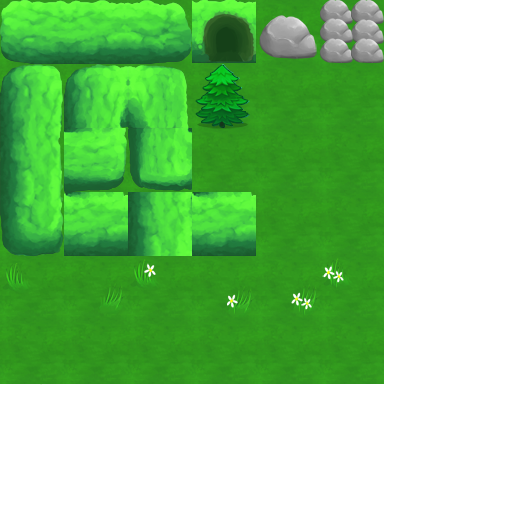
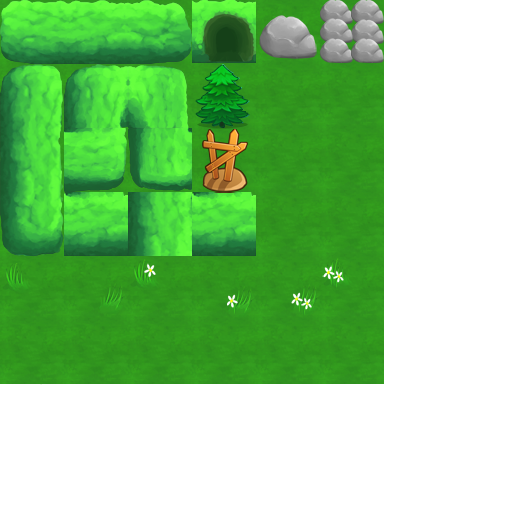
Barricade added

Changed region(s): [[0.375, 0.25, 0.5, 0.375]]

diff --git a/megafoxhunt-server/src/net/megafox/game/GameSimulation.java b/megafoxhunt-server/src/net/megafox/game/GameSimulation.java
@@ -10,15 +10,19 @@ import java.util.TimerTask;
 import net.megafox.entities.Berry;
 import net.megafox.entities.Chased;
 import net.megafox.entities.Chaser;
+import net.megafox.entities.Empty;
 import net.megafox.entities.Entity;
 import net.megafox.entities.Hole;
 import net.megafox.entities.Powerup;
 import net.megafox.entities.Entity.Visibility;
 import net.megafox.gameroom.PlayerContainer;
+import net.megafox.items.Barricade;
 import net.megafox.items.Bomb;
 import net.megafox.items.Item;
+import net.megafoxhunt.server.IDHandler;
 import net.megafoxhunt.server.PlayerConnection;
 import net.megafoxhunt.shared.KryoNetwork.ActivatePowerup;
+import net.megafoxhunt.shared.KryoNetwork.AddBarricade;
 import net.megafoxhunt.shared.KryoNetwork.AddChaser;
 import net.megafoxhunt.shared.KryoNetwork.AddChased;
 import net.megafoxhunt.shared.KryoNetwork.AddPowerup;
@@ -54,9 +58,12 @@ public class GameSimulation {
 	
 	private boolean powerupActive = false;
 	
-	public GameSimulation(PlayerContainer playerContainer, GameMapServerSide gameMap){
+	private IDHandler idHandler;
+	
+	public GameSimulation(PlayerContainer playerContainer, GameMapServerSide gameMap, IDHandler idHandler){
 		this.gameMap = gameMap;
-		this.playerContainer = playerContainer;		
+		this.playerContainer = playerContainer;
+		this.idHandler = idHandler;
 		removable = new ArrayList<>();
 		chasers = new ArrayList<>();
 		chaseds = new ArrayList<>();
@@ -284,16 +291,25 @@ public class GameSimulation {
 		public TimerListener(Entity entity) {
 			this.entity = entity;
 		}
+		
 
 		@Override
 		public void run() {
-			if (entity instanceof Hole) {
-				((Hole)entity).setHoleCooldown(false);
+			if (entity instanceof Hole)((Hole)entity).setHoleCooldown(false);
+			else if (entity instanceof net.megafox.entities.Barricade) {
+				gameMap.setEmpty(entity.getX(), entity.getY());
+				RemoveEntity removeEntity = new RemoveEntity();
+				removeEntity.id = entity.getId();
+				idHandler.freeID(entity.getId());
+				
+				ChangeTilesTypes changeTilesTypes = new ChangeTilesTypes();
+				changeTilesTypes.addTile(entity.getX(), entity.getY(), 13);
+				playerContainer.sendObjectToAll(changeTilesTypes);
 			}
 		}
 	}
 
-	public void useItem(Item item, int x, int y) {
+	public void useItem(Item item, int x, int y, PlayerConnection player) {
 		if (item instanceof Bomb) {
 			ChangeTilesTypes changeTilesTypes = new ChangeTilesTypes();
 			
@@ -316,6 +332,26 @@ public class GameSimulation {
 			
 			if (!changeTilesTypes.getTiles().isEmpty()) {
 				playerContainer.sendObjectToAll(changeTilesTypes);
+			}
+		} else if (item instanceof Barricade) {
+			int targetX = x;
+			int targetY = y;
+			
+			int direction = player.getEntity().getFacingDirection();
+			if (direction == Shared.DIRECTION_RIGHT) targetX++;
+			else if (direction == Shared.DIRECTION_LEFT) targetX--;
+			else if (direction == Shared.DIRECTION_UP) targetY++;
+			else if (direction == Shared.DIRECTION_DOWN) targetY--;
+			
+			if (gameMap.getEntity(targetX, targetY) instanceof Empty) {
+				ChangeTilesTypes changeTilesTypes = new ChangeTilesTypes();
+				changeTilesTypes.addTile(targetX, targetY, 20);
+				
+				net.megafox.entities.Barricade barricade = new net.megafox.entities.Barricade(targetX, targetY, idHandler.getFreeID());
+				gameMap.setWall(targetX, targetY);
+				playerContainer.sendObjectToAll(new Move(player.getMyId(), 0, x, y, true));
+				playerContainer.sendObjectToAll(changeTilesTypes);
+				timer.schedule(new TimerListener(barricade), 5000);
 			}
 		}
 	}

diff --git a/megafoxrun/src/net/megafoxhunt/core/GameResources.java b/megafoxrun/src/net/megafoxhunt/core/GameResources.java
@@ -15,10 +15,12 @@ public class GameResources {
 	public Texture DOG_TEXTURE;
 	public Texture BERRY_TEXTURE;
 	public Texture HOLE_TEXTURE;
+	public Texture BARRICADE_TEXTURE;
 	public Texture POWERRUP_TEXTURE;
 	
 	public Animation[] BERRY_ANIMATIONS = new Animation[10];
 	public Animation[] HOLE_ANIMATIONS = new Animation[10];
+	public Animation[] BARRICADE_ANIMATIONS = new Animation[10];
 	public Animation[] FOX_ANIMATIONS = new Animation[10];
 	public Animation[] DOG_ANIMATIONS  = new Animation[10];
 	public Animation[] POWERRUP_ANIMATIONS = new Animation[10];
@@ -47,10 +49,13 @@ public class GameResources {
 		 
 		 HOLE_TEXTURE = new Texture("data/hole.png");
 		 
+		 BARRICADE_TEXTURE = new Texture("data/barricade.png");
+		 
 		 POWERRUP_ANIMATIONS[DEFAULT_ANIMATION] = generateAnimation(POWERRUP_TEXTURE, 0.025f, 1, 1);
 		 
-		 BERRY_ANIMATIONS[DEFAULT_ANIMATION] = generateAnimation(BERRY_TEXTURE, 0.025f, 1, 1);
-		 HOLE_ANIMATIONS[DEFAULT_ANIMATION] = generateAnimation(HOLE_TEXTURE, 0.025f, 1, 1);
+		 BERRY_ANIMATIONS[DEFAULT_ANIMATION] = generateAnimation(BERRY_TEXTURE, 1f, 1, 1);
+		 HOLE_ANIMATIONS[DEFAULT_ANIMATION] = generateAnimation(HOLE_TEXTURE, 1f, 1, 1);
+		 BARRICADE_ANIMATIONS[DEFAULT_ANIMATION] = generateAnimation(BARRICADE_TEXTURE, 1f, 1, 1);
 		 
 		 FOX_ANIMATIONS[DEFAULT_ANIMATION] = generateAnimation(FOX_TEXTURE, 0.025f, 0, 0, 104, 66 , 1, 10);
 		 FOX_ANIMATIONS[FRONT_ANIMATION] = generateAnimation(FOX_TEXTURE, 0.025f, 0, 66, 64, 99 , 1, 10);
@@ -107,6 +112,7 @@ public class GameResources {
 		DOG_TEXTURE.dispose();
 		BERRY_TEXTURE.dispose();
 		HOLE_TEXTURE.dispose();
+		BARRICADE_TEXTURE.dispose();
 		POWERRUP_TEXTURE.dispose();
 		
 		connectButtonTexture.dispose();

diff --git a/megafoxrun/src/net/megafoxhunt/core/GameNetwork.java b/megafoxrun/src/net/megafoxhunt/core/GameNetwork.java
@@ -5,6 +5,7 @@ import java.io.IOException;
 import java.util.Scanner;
 
 import net.megafoxhunt.debug.Robot;
+import net.megafoxhunt.entities.Barricade;
 import net.megafoxhunt.entities.Berry;
 import net.megafoxhunt.entities.Chased;
 import net.megafoxhunt.entities.Chaser;
@@ -15,6 +16,7 @@ import net.megafoxhunt.screens.GameScreen;
 import net.megafoxhunt.screens.LobbyScreen;
 import net.megafoxhunt.shared.GameMapSharedConfig;
 import net.megafoxhunt.shared.KryoNetwork;
+import net.megafoxhunt.shared.KryoNetwork.AddBarricade;
 import net.megafoxhunt.shared.KryoNetwork.AddBerry;
 import net.megafoxhunt.shared.KryoNetwork.AddChased;
 import net.megafoxhunt.shared.KryoNetwork.AddChaser;
@@ -146,6 +148,11 @@ public class GameNetwork {
 				else if (object instanceof AddHole) {
 					AddHole addHole = (AddHole)object;
 					MyGdxGame.mapHandler.currentMap.addStaticObject(new Hole(addHole.id, addHole.x, addHole.y));
+				}
+				
+				else if (object instanceof AddBarricade) {
+					AddBarricade addBarricade = (AddBarricade)object;
+					MyGdxGame.mapHandler.currentMap.addStaticObject(new Barricade(addBarricade.id, addBarricade.x, addBarricade.y));
 				}
 				/*
 				 * REMOVE ENTITY 

diff --git a/megafoxhunt-server/src/net/megafox/gameroom/GameRoom.java b/megafoxhunt-server/src/net/megafox/gameroom/GameRoom.java
@@ -15,6 +15,7 @@ import net.megafox.entities.Powerup;
 import net.megafox.entities.Chased;
 import net.megafox.game.GameMapServerSide;
 import net.megafox.game.GameSimulation;
+import net.megafox.items.Barricade;
 import net.megafox.items.Bomb;
 import net.megafox.items.Item;
 import net.megafoxhunt.server.IDHandler;
@@ -263,10 +264,11 @@ public class GameRoom extends Thread {
 	private void setPlayerToChased(PlayerConnection connection, int positionOffset){
 		Chased chased = new Chased(2, 12 + (positionOffset), connection.getMyId(), connection);
 		connection.setEntity(chased);
+		connection.setCurrentItem(new Barricade(gameSimulation));
 		gameSimulation.addChased(chased);
 	}
-	public void startSimulation() {		
-		gameSimulation = new GameSimulation(playerContainer, currentMap);		
+	public void startSimulation(IDHandler idHandler) {		
+		gameSimulation = new GameSimulation(playerContainer, currentMap, idHandler);		
 	}
 	/**
 	 * Set current map and inform players about the map

diff --git a/ServerClientShared/src/net/megafoxhunt/shared/KryoNetwork.java b/ServerClientShared/src/net/megafoxhunt/shared/KryoNetwork.java
@@ -26,6 +26,7 @@ public class KryoNetwork {
 		kryo.register(Message.class);
 		kryo.register(Winner.class);
 		kryo.register(AddHole.class);
+		kryo.register(AddBarricade.class);
 		kryo.register(ActivateItem.class);
 		kryo.register(ChangeTilesTypes.class);
 		kryo.register(ArrayList.class);
@@ -143,6 +144,20 @@ public class KryoNetwork {
 			this.y = y;
 		}
 	}
+	
+	public static class AddBarricade {
+		public int id;
+		public int x;
+		public int y;
+		
+		public AddBarricade(){}
+		public AddBarricade(int id, int x, int y) {
+			this.id = id;
+			this.x = x;
+			this.y = y;
+		}
+	}
+	
 	public static class RemoveEntity {
 		public int id;
 	}

diff --git a/megafoxhunt-server/src/net/megafox/items/Item.java b/megafoxhunt-server/src/net/megafox/items/Item.java
@@ -1,6 +1,7 @@
 package net.megafox.items;
 
 import net.megafox.game.GameSimulation;
+import net.megafoxhunt.server.PlayerConnection;
 
 public abstract class Item {
 	
@@ -9,8 +10,8 @@ public abstract class Item {
 	public Item(GameSimulation gameSimulation) {
 		this.gameSimulation = gameSimulation;
 	}
-	public void activateItem(int x, int y) {
-		gameSimulation.useItem(this, x, y);
+	public void activateItem(int x, int y, PlayerConnection player) {
+		gameSimulation.useItem(this, x, y, player);
 	}
 	
 }

diff --git a/megafoxhunt-server/src/net/megafox/entities/Entity.java b/megafoxhunt-server/src/net/megafox/entities/Entity.java
@@ -18,6 +18,7 @@ public class Entity {
 	private int y;
 	private int lastX;
 	private int lastY;
+	private int facingDirection;
 
 	private Visibility visibility;
 	
@@ -60,6 +61,8 @@ public class Entity {
 			}
 			this.x = targetX;
 			this.y = targetY;
+			
+			if (direction != 0) facingDirection = direction;
 			
 			return true;
 		}
@@ -104,5 +107,9 @@ public class Entity {
 	
 	public int getId() {
 		return id;
+	}
+	
+	public int getFacingDirection() {
+		return facingDirection;
 	}
 }

diff --git a/megafoxhunt-server/src/net/megafoxhunt/server/ServerRooms.java b/megafoxhunt-server/src/net/megafoxhunt/server/ServerRooms.java
@@ -49,7 +49,7 @@ public class ServerRooms {
 	public void startGame(GameRoom room){	
 		if(room.getRoomState() == GameRoom.STATE_LOBBY){
 			room.changeMap(GameMapSharedConfig.DEBUG_MAP);	
-			room.startSimulation();		
+			room.startSimulation(gameServer.idHandler);		
 			room.setChasedsAndChasers();
 			room.generateBerries(GameMapServerSide.TOTAL_BERRIES, gameServer.idHandler);
 			room.generateHoles(GameMapServerSide.TOTAL_HOLES, gameServer.idHandler);

diff --git a/megafoxhunt-server/src/net/megafoxhunt/server/PlayerConnection.java b/megafoxhunt-server/src/net/megafoxhunt/server/PlayerConnection.java
@@ -71,7 +71,7 @@ public class PlayerConnection extends Connection {
 		Item item = getCurrentItem();
 		if (item == null) return;
 		
-		item.activateItem(getEntity().getX(), getEntity().getY());
+		item.activateItem(getEntity().getX(), getEntity().getY(), this);
 		
 		// remove used item
 		//playerConnection.setCurrentItem(null);

diff --git a/megafoxrun/src/net/megafoxhunt/core/MyGdxGame.java b/megafoxrun/src/net/megafoxhunt/core/MyGdxGame.java
@@ -6,7 +6,7 @@ import com.badlogic.gdx.Gdx;
 
 public class MyGdxGame extends Game {	
 	
-	public static final String IP_SERVER = "54.72.36.237";
+	public static final String IP_SERVER = "localhost";
 	//public static final String IP_SERVER = "54.72.36.237";
 
 	public static final int VIRTUAL_WIDTH = 800;

diff --git a/megafoxrun/src/net/megafoxhunt/entities/Barricade.java b/megafoxrun/src/net/megafoxhunt/entities/Barricade.java
@@ -1,0 +1,10 @@
+package net.megafoxhunt.entities;
+
+import net.megafoxhunt.core.MyGdxGame;
+
+public class Barricade extends Entity {
+
+	public Barricade(int id, float x, float y) {
+		super(id, x, y, MyGdxGame.resources.BARRICADE_ANIMATIONS);
+	}
+}

diff --git a/megafoxhunt-server/src/net/megafox/items/Barricade.java b/megafoxhunt-server/src/net/megafox/items/Barricade.java
@@ -1,0 +1,10 @@
+package net.megafox.items;
+
+import net.megafox.game.GameSimulation;
+
+public class Barricade extends Item {
+
+	public Barricade(GameSimulation gameSimulation) {
+		super(gameSimulation);
+	}
+}
